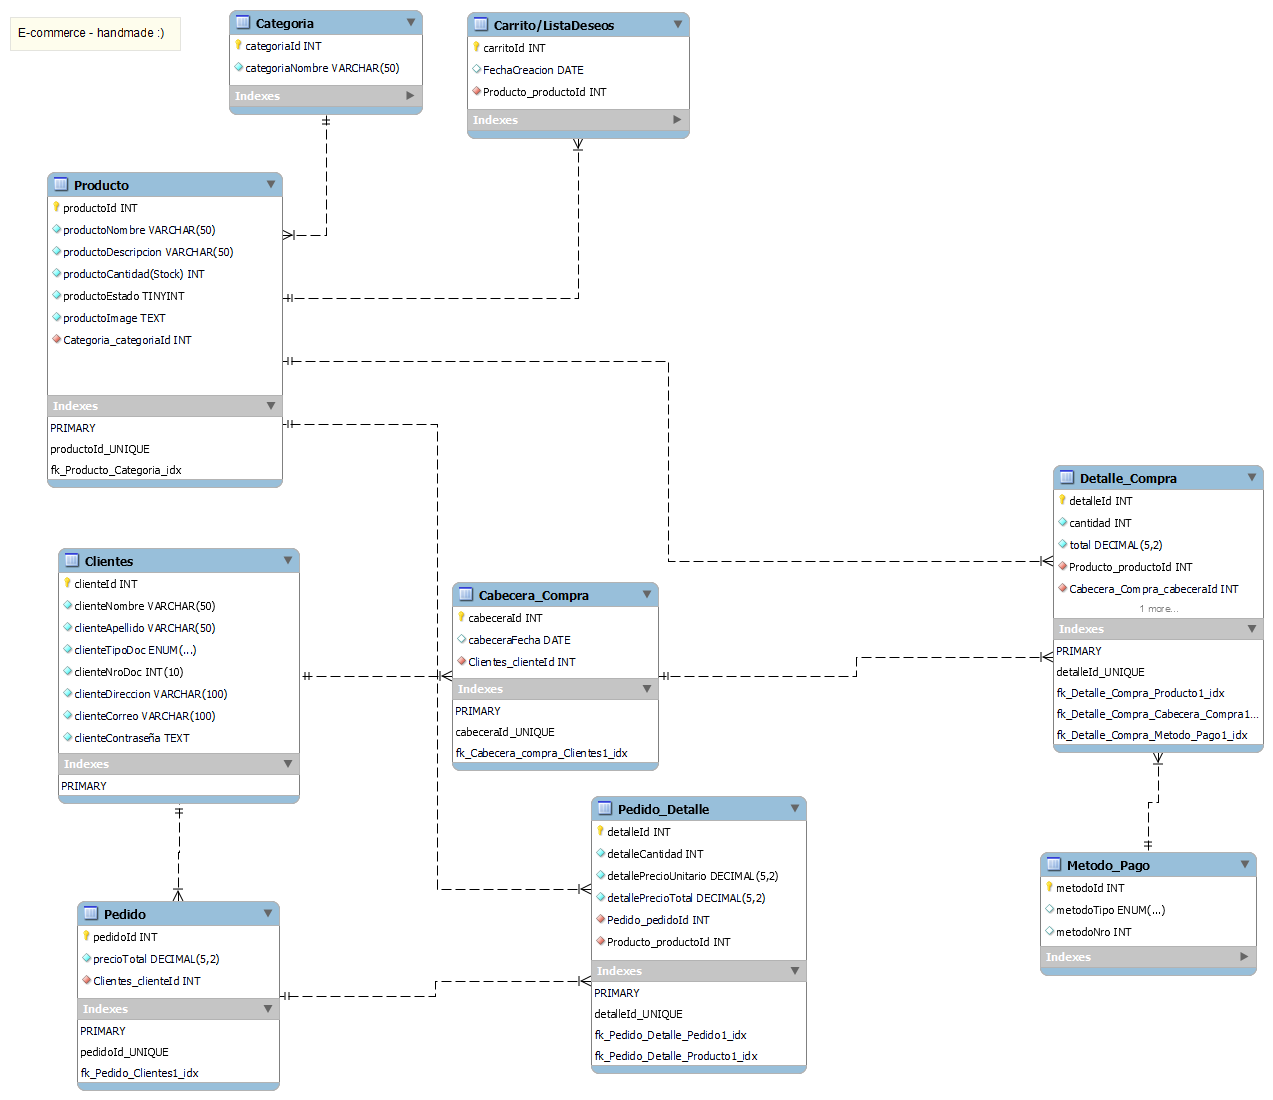
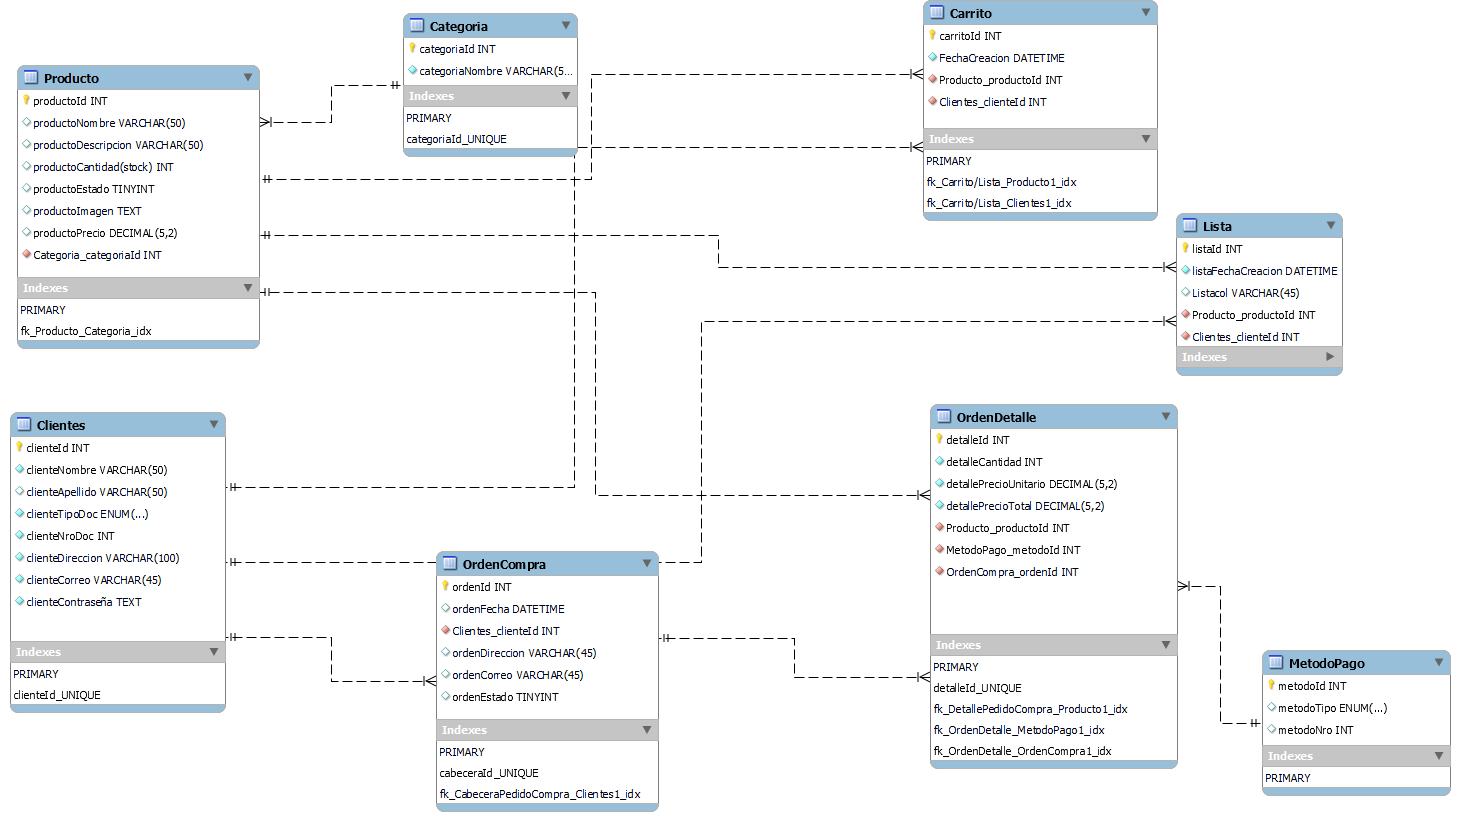
chore: modificacion tablas

diff --git a/handmade/migrations/0001_Creacion_tablas.py b/handmade/migrations/0001_Creacion_tablas.py
@@ -1,4 +1,4 @@
-# Generated by Django 3.2.7 on 2021-10-03 04:49
+# Generated by Django 3.2.7 on 2021-10-04 03:21
 
 from django.db import migrations, models
 import django.db.models.deletion
@@ -12,16 +12,6 @@ class Migration(migrations.Migration):
     ]
 
     operations = [
-        migrations.CreateModel(
-            name='CabeceraCompraModel',
-            fields=[
-                ('cabeceraId', models.AutoField(db_column='id', primary_key=True, serialize=False, unique=True)),
-                ('cabeceraFecha', models.DateTimeField(auto_now_add=True, db_column='fecha')),
-            ],
-            options={
-                'db_table': 'cabecera_compra',
-            },
-        ),
         migrations.CreateModel(
             name='CategoriaModel',
             fields=[
@@ -60,6 +50,20 @@ class Migration(migrations.Migration):
             },
         ),
         migrations.CreateModel(
+            name='OrdenCompraModel',
+            fields=[
+                ('ordenId', models.AutoField(db_column='id', primary_key=True, serialize=False, unique=True)),
+                ('ordenFecha', models.DateTimeField(auto_now_add=True, db_column='fecha')),
+                ('ordenDireccion', models.CharField(db_column='direccion', max_length=100)),
+                ('ordenCorreo', models.CharField(db_column='correo', max_length=50)),
+                ('ordenEstado', models.BooleanField(db_column='estado', default=True)),
+                ('cliente', models.ForeignKey(db_column='cliente_id', on_delete=django.db.models.deletion.PROTECT, related_name='pedidoCliente', to='handmade.clientemodel')),
+            ],
+            options={
+                'db_table': 'orden_compra',
+            },
+        ),
+        migrations.CreateModel(
             name='ProductoModel',
             fields=[
                 ('productoId', models.AutoField(db_column='id', primary_key=True, serialize=False, unique=True)),
@@ -78,42 +82,30 @@ class Migration(migrations.Migration):
             },
         ),
         migrations.CreateModel(
-            name='PedidoModel',
+            name='OrdenDetalleModel',
             fields=[
-                ('pedidoId', models.AutoField(db_column='id', primary_key=True, serialize=False, unique=True)),
-                ('pedidoFecha', models.DateTimeField(auto_now_add=True, db_column='fecha')),
-                ('pedidoTotal', models.DecimalField(db_column='total', decimal_places=2, max_digits=5)),
-                ('cliente', models.ForeignKey(db_column='cliente_id', on_delete=django.db.models.deletion.PROTECT, related_name='pedidoCliente', to='handmade.clientemodel')),
-            ],
-            options={
-                'db_table': 'pedido',
-            },
-        ),
-        migrations.CreateModel(
-            name='PedidoDetalleModel',
-            fields=[
-                ('detalleId', models.AutoField(db_column='id', primary_key=True, serialize=False, unique=True)),
-                ('detalleCantidad', models.IntegerField(db_column='cantidad', default=0)),
-                ('detallePrecioUnitario', models.DecimalField(db_column='precioUnitario', decimal_places=2, max_digits=5)),
-                ('pedido', models.ForeignKey(db_column='pedido_id', on_delete=django.db.models.deletion.PROTECT, related_name='detallePedido', to='handmade.pedidomodel')),
+                ('ordenDetalleId', models.AutoField(db_column='id', primary_key=True, serialize=False, unique=True)),
+                ('ordenDetalleCantidad', models.IntegerField(db_column='cantidad', default=0)),
+                ('ordenDetallePrecioUnitario', models.DecimalField(db_column='precioUnitario', decimal_places=2, max_digits=5)),
+                ('ordenDetallePrecioTotal', models.DecimalField(db_column='precioTotal', decimal_places=2, max_digits=5)),
+                ('metodoPago', models.ForeignKey(db_column='metodo_id', on_delete=django.db.models.deletion.PROTECT, related_name='ordenMetodo', to='handmade.metodopagomodel')),
+                ('ordenCompra', models.ForeignKey(db_column='pedido_id', on_delete=django.db.models.deletion.PROTECT, related_name='detallePedido', to='handmade.ordencompramodel')),
                 ('producto', models.ForeignKey(db_column='producto_id', on_delete=django.db.models.deletion.PROTECT, related_name='detalleProducto', to='handmade.productomodel')),
             ],
             options={
-                'db_table': 'detalle_pedido',
+                'db_table': 'orden_detalle',
             },
         ),
         migrations.CreateModel(
-            name='DetalleCompraModel',
+            name='ListaModel',
             fields=[
-                ('detalleCompraId', models.AutoField(db_column='id', primary_key=True, serialize=False, unique=True)),
-                ('detalleCompraCantidad', models.IntegerField(db_column='cantidad', default=0)),
-                ('detalleCompraPrecioTotal', models.DecimalField(db_column='precioTotal', decimal_places=2, max_digits=5)),
-                ('cabecera', models.ForeignKey(db_column='cabecera_id', on_delete=django.db.models.deletion.PROTECT, related_name='cabeceraDetalle', to='handmade.cabeceracompramodel')),
-                ('metodo', models.ForeignKey(db_column='metodo_id', on_delete=django.db.models.deletion.PROTECT, related_name='metodoCompra', to='handmade.metodopagomodel')),
-                ('producto', models.ForeignKey(db_column='producto_id', on_delete=django.db.models.deletion.PROTECT, related_name='detalleProductoCompra', to='handmade.productomodel')),
+                ('listaId', models.AutoField(db_column='id', primary_key=True, serialize=False, unique=True)),
+                ('listaFechaCreacion', models.DateTimeField(auto_now_add=True, db_column='fecha')),
+                ('cliente', models.ForeignKey(db_column='cliente_id', on_delete=django.db.models.deletion.PROTECT, related_name='listaCliente', to='handmade.clientemodel')),
+                ('productos', models.ForeignKey(db_column='producto_id', on_delete=django.db.models.deletion.PROTECT, related_name='listaProductos', to='handmade.productomodel')),
             ],
             options={
-                'db_table': 'detalle_compra',
+                'db_table': 'lista',
             },
         ),
         migrations.CreateModel(
@@ -127,10 +119,5 @@ class Migration(migrations.Migration):
             options={
                 'db_table': 'carrito',
             },
-        ),
-        migrations.AddField(
-            model_name='cabeceracompramodel',
-            name='cliente',
-            field=models.ForeignKey(db_column='cliente_id', on_delete=django.db.models.deletion.PROTECT, related_name='cabeceraCliente', to='handmade.clientemodel'),
         ),
     ]

diff --git a/handmade/models.py b/handmade/models.py
@@ -49,40 +49,32 @@ class CarritoModel(models.Model):
 
     class Meta:
         db_table = 'carrito'
-class PedidoModel(models.Model):
-    pedidoId = models.AutoField(db_column='id', primary_key=True, unique=True, null=False)
-    pedidoFecha = models.DateTimeField(db_column='fecha',auto_now_add=True)
-    pedidoTotal = models.DecimalField(db_column='total', max_digits=5, decimal_places=2, null=False)
+
+class ListaModel(models.Model):
+    listaId = models.AutoField(db_column='id', primary_key=True, null=False, unique=True)
+    listaFechaCreacion = models.DateTimeField(db_column='fecha', auto_now_add=True)
+
+     # *** RELACIONES
+
+    productos = models.ForeignKey(to=ProductoModel, db_column='producto_id', related_name='listaProductos', null=False, on_delete=models.PROTECT)
+    cliente = models.ForeignKey(to=ClienteModel, db_column='cliente_id', related_name='listaCliente', null=False, on_delete=models.PROTECT)
+
+    class Meta:
+        db_table = 'lista'
+class OrdenCompraModel(models.Model):
+    ordenId = models.AutoField(db_column='id', primary_key=True, unique=True, null=False)
+    ordenFecha = models.DateTimeField(db_column='fecha',auto_now_add=True)
+    ordenDireccion = models.CharField(db_column='direccion',max_length=100, null=False)
+    ordenCorreo = models.CharField(db_column='correo', max_length=50, null=False)
+    ordenEstado = models.BooleanField(db_column='estado', default=True)
 
     # *** RELACIONES
 
     cliente = models.ForeignKey(to=ClienteModel, db_column='cliente_id', related_name='pedidoCliente', null=False, on_delete=models.PROTECT)
 
     class Meta:
-        db_table = 'pedido'
-class PedidoDetalleModel(models.Model):
-    detalleId = models.AutoField(db_column='id', primary_key=True, null=False, unique=True)
-    detalleCantidad = models.IntegerField(db_column='cantidad', null=False, default=0)
-    detallePrecioUnitario = models.DecimalField(db_column='precioUnitario', max_digits=5, decimal_places=2 )
-    
+        db_table = 'orden_compra'
 
-    # *** RELACIONES
-
-    pedido = models.ForeignKey(to=PedidoModel, db_column='pedido_id', related_name='detallePedido', null=False, on_delete=models.PROTECT)
-    producto = models.ForeignKey(to=ProductoModel, db_column='producto_id', related_name='detalleProducto', null=False, on_delete=models.PROTECT)
-
-    class Meta:
-        db_table = 'detalle_pedido'
-class CabeceraCompraModel(models.Model):
-    cabeceraId = models.AutoField(db_column='id', primary_key=True, null=False, unique=True)
-    cabeceraFecha = models.DateTimeField(db_column='fecha',auto_now_add=True)
-
-     # *** RELACIONES
-
-    cliente = models.ForeignKey(to=ClienteModel, db_column='cliente_id', related_name='cabeceraCliente', null=False, on_delete=models.PROTECT)
-
-    class Meta: 
-        db_table = 'cabecera_compra'
 class MetodoPagoModel(models.Model):
     TIPO_METODO = [(1, 'EFECTIVO'), (2,'TARJETA')]
 
@@ -92,13 +84,17 @@ class MetodoPagoModel(models.Model):
 
     class Meta: 
         db_table = 'metodo_pago'
-class DetalleCompraModel(models.Model):
-    detalleCompraId = models.AutoField(db_column='id', primary_key=True, null=False, unique=True)
-    detalleCompraCantidad = models.IntegerField(db_column='cantidad', null=False, default=0)
-    detalleCompraPrecioTotal =  models.DecimalField(db_column='precioTotal', max_digits=5, decimal_places=2)
-    
-    cabecera = models.ForeignKey(to=CabeceraCompraModel, db_column='cabecera_id', related_name='cabeceraDetalle', null=False, on_delete=models.PROTECT)
-    producto = models.ForeignKey(to=ProductoModel, db_column='producto_id', related_name='detalleProductoCompra', null=False, on_delete=models.PROTECT)
-    metodo = models.ForeignKey(to=MetodoPagoModel, db_column='metodo_id', related_name='metodoCompra', null=False, on_delete=models.PROTECT)
+class OrdenDetalleModel(models.Model):
+    ordenDetalleId = models.AutoField(db_column='id', primary_key=True, null=False, unique=True)
+    ordenDetalleCantidad = models.IntegerField(db_column='cantidad', null=False, default=0)
+    ordenDetallePrecioUnitario = models.DecimalField(db_column='precioUnitario', max_digits=5, decimal_places=2 )
+    ordenDetallePrecioTotal = models.DecimalField(db_column='precioTotal', max_digits=5, decimal_places=2 )
+
+
+    # *** RELACIONES
+
+    ordenCompra = models.ForeignKey(to=OrdenCompraModel, db_column='pedido_id', related_name='detallePedido', null=False, on_delete=models.PROTECT)
+    producto = models.ForeignKey(to=ProductoModel, db_column='producto_id', related_name='detalleProducto', null=False, on_delete=models.PROTECT)
+    metodoPago = models.ForeignKey(to=MetodoPagoModel, db_column='metodo_id', null=False, related_name='ordenMetodo', on_delete=models.PROTECT)
     class Meta:
-        db_table = 'detalle_compra'
+        db_table = 'orden_detalle'
